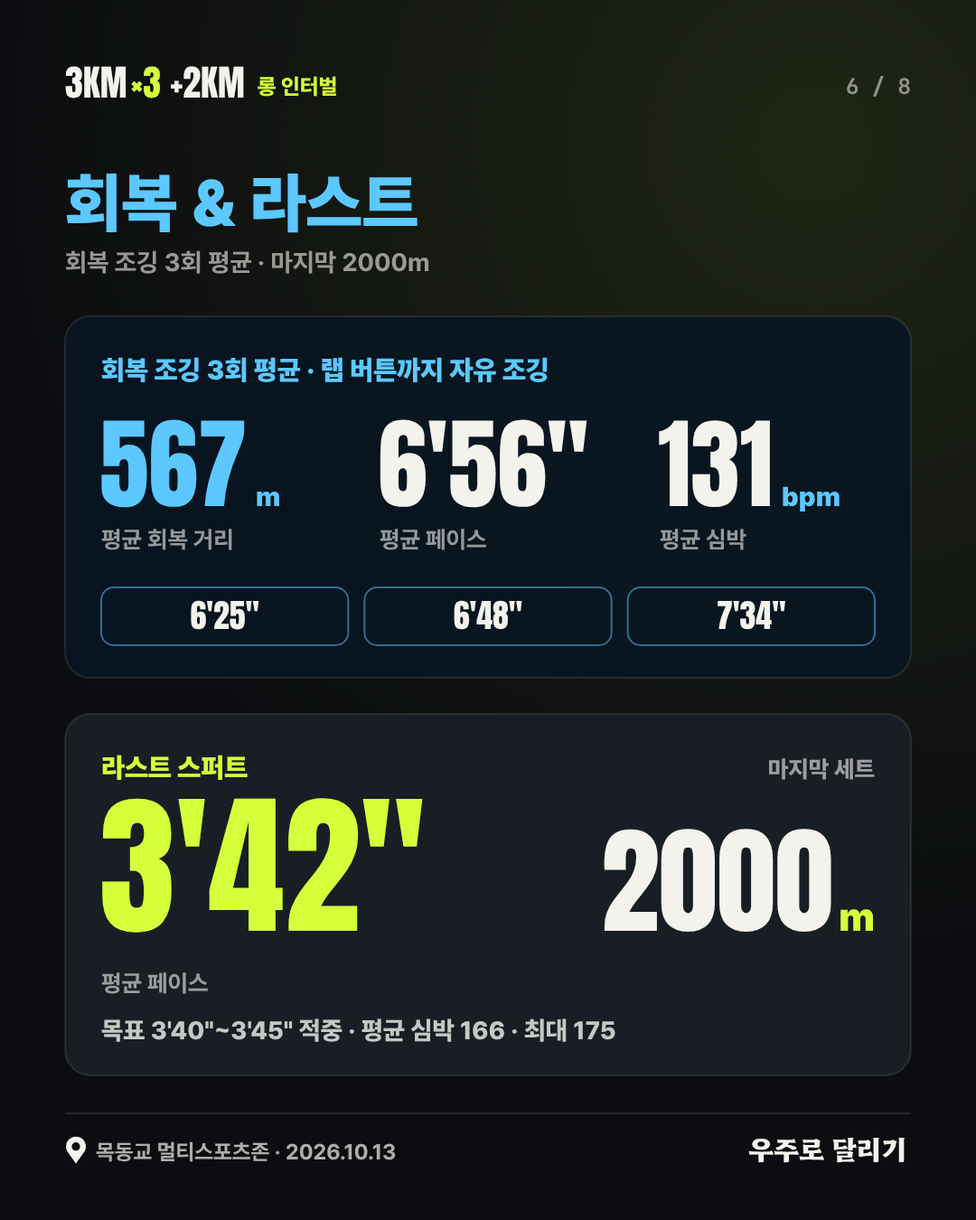
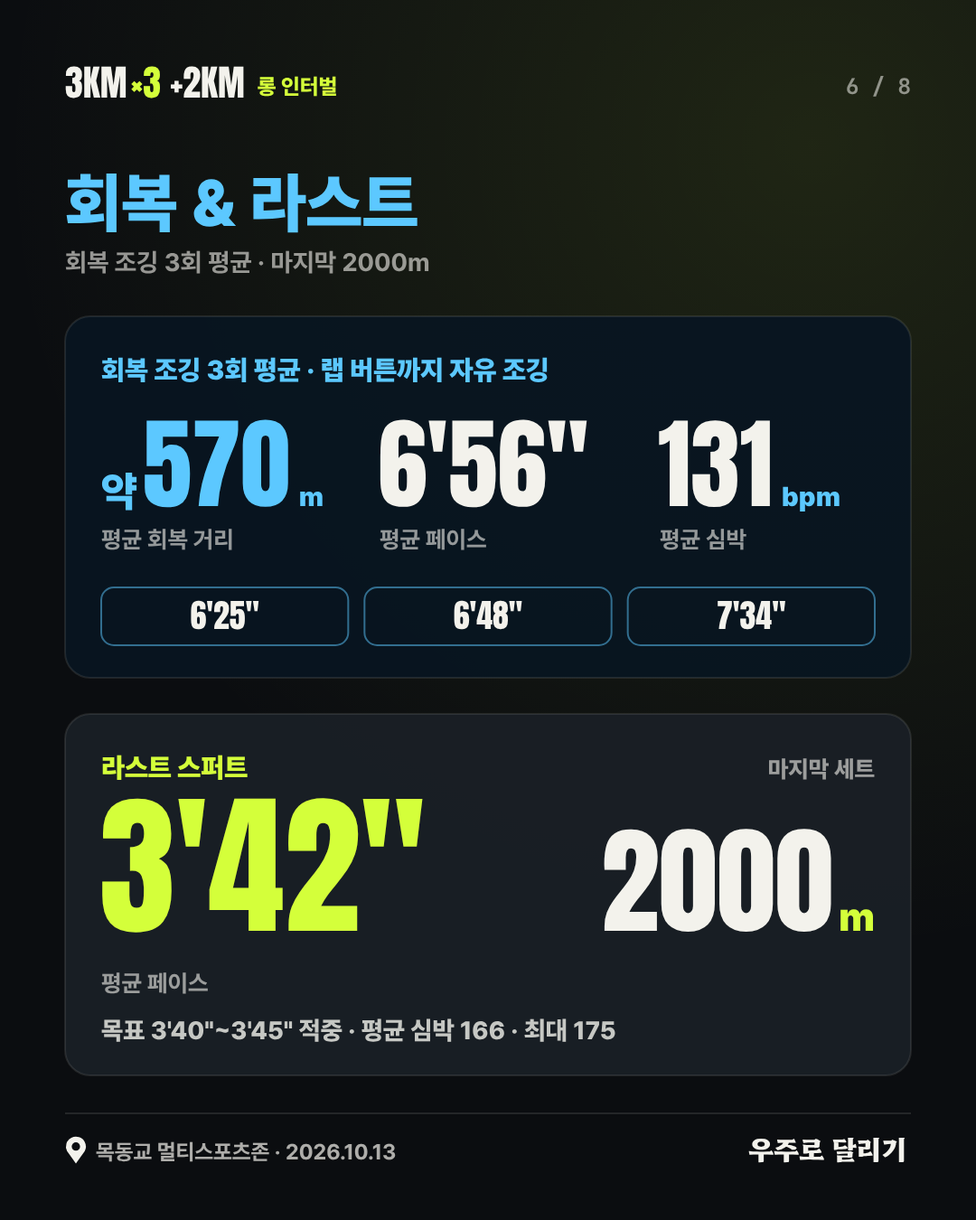
Round recovery distances to 10m with '약'; update pause wording
Claude-Session: https://claude.ai/code/session_014Y6EAQ8ssYscUPsXE8Frp2

Changed region(s): [[0.0917, 0.3422, 0.3056, 0.4356], [0.3056, 0.4044, 0.3361, 0.4356]]

diff --git a/.claude/skills/instagram-training-feed/template/cards.js b/.claude/skills/instagram-training-feed/template/cards.js
@@ -103,10 +103,10 @@ function arrow(x, y, ang, size, col) {
 }
 /* 가민 워크아웃 구성 (FIT의 workout / workout_step에서 가져온 계획) */
 const WORKOUT = {
-  name: '2km*5+1km 롱 인터벌',
+  name: '3k*3 + 2k 롱 인터벌',
   steps: [
-    ...REPS.flatMap(r => [{ run: true, dist: 2000, lo: r.lo, hi: r.hi }, { run: false, lo: 300, hi: 390 }]),
-    { run: true, dist: 1000, lo: 215, hi: 220 },
+    ...REPS.flatMap(r => [{ run: true, dist: SETD, lo: r.lo, hi: r.hi }, { run: false }]),
+    { run: true, dist: FINAL.dist, lo: FINAL.lo, hi: FINAL.hi, last: true },
   ],
 };
 function drawWorkoutPlan(x, y, w) {
@@ -118,8 +118,8 @@ function drawWorkoutPlan(x, y, w) {
   ctx.restore();
   txt('가민 워크아웃', x + 56, y, { size: 26, weight: 800, alpha: .6 });
   txt(WORKOUT.name, x + 56 + measure('가민 워크아웃', 26, 800) + 14, y + 1, { size: 30, weight: 900 });
-  // 스텝 타임라인 (길이 비례, 회복은 실제 평균 520m 비율로)
-  const units = WORKOUT.steps.reduce((a, st) => a + (st.run ? st.dist : 520), 0), gap = 4;
+  // 스텝 타임라인 (길이 비례, 회복은 실제 평균 거리 비율로)
+  const units = WORKOUT.steps.reduce((a, st) => a + (st.run ? st.dist : RECAVG.dist), 0), gap = 4;
   const bw = w - gap * (WORKOUT.steps.length - 1);
   let cx = x; const by = y + 78, bh = 54;
   // 헤더 오른쪽: 빌드업 규칙
@@ -129,14 +129,14 @@ function drawWorkoutPlan(x, y, w) {
   const runCenters = [];
   let n = 0;
   WORKOUT.steps.forEach((st, i) => {
-    const sw = bw * (st.run ? st.dist : 520) / units;
+    const sw = bw * (st.run ? st.dist : RECAVG.dist) / units;
     rrect(cx, by, sw, bh, 10);
-    ctx.fillStyle = st.run ? (st.dist === 1000 ? C.lime : ZC[3]) : 'rgba(92,200,255,.55)'; ctx.fill();
+    ctx.fillStyle = st.run ? (st.last ? C.lime : ZC[3]) : 'rgba(92,200,255,.55)'; ctx.fill();
     if (st.run) {
       n++; runCenters.push([cx + sw / 2, st.lo]);
-      txt(st.dist === 1000 ? '1km' : `2km`, cx + sw / 2, by + 36, { size: 24, fam: NUM, weight: 400, color: C.bg, align: 'center' });
+      txt(`${st.dist / 1000}km`, cx + sw / 2, by + 36, { size: 24, fam: NUM, weight: 400, color: C.bg, align: 'center' });
       // 목표는 '범위' — 하한·상한을 같은 밝기로 묶어서 표시
-      const rng = `${fmtPace(st.lo)}~${fmtPace(st.hi)}`, col = st.dist === 1000 ? C.lime : ZC[3];
+      const rng = `${fmtPace(st.lo)}~${fmtPace(st.hi)}`, col = st.last ? C.lime : ZC[3];
       line(cx + 4, by + bh + 8, cx + sw - 4, by + bh + 8, 1, { color: col, w: 2, alpha: .8 });
       line(cx + 4, by + bh + 2, cx + 4, by + bh + 8, 1, { color: col, w: 2, alpha: .8 }); line(cx + sw - 4, by + bh + 2, cx + sw - 4, by + bh + 8, 1, { color: col, w: 2, alpha: .8 });
       if (measure(rng, 18, 700, MONO) <= sw - 4) txt(rng, cx + sw / 2, by + bh + 36, { size: 18, fam: MONO, weight: 700, align: 'center', color: C.white });
@@ -160,7 +160,7 @@ function drawWorkoutPlan(x, y, w) {
   txt('질주 · 목표 페이스 범위', x + 32, ly, { size: 22, weight: 700, alpha: .75 });
   const lx2 = x + 32 + measure('질주 · 목표 페이스 범위', 22, 700) + 30;
   rrect(lx2, ly - 18, 22, 22, 5); ctx.fillStyle = 'rgba(92,200,255,.55)'; ctx.fill();
-  txt(`회복 · 랩 버튼까지 ${fmtPace(300)}~${fmtPace(390)}`, lx2 + 32, ly, { size: 22, weight: 700, alpha: .75 });
+  txt('회복 · 랩 버튼까지 자유 조깅', lx2 + 32, ly, { size: 22, weight: 700, alpha: .75 });
 }
 function cardFrame(n, title, sub, accent = C.lime) {
   bgFill(C.bg, .1, 900, 160);
@@ -170,76 +170,79 @@ function cardFrame(n, title, sub, accent = C.lime) {
   if (sub) txt(sub, 72, 300, { size: 28, weight: 700, alpha: .6 });
   line(72, 1232, W - 72, 1232, 1, { color: C.white, w: 1.5, alpha: .15 });
   pin(84, 1272, 11, C.white);
-  txt('목동교 멀티스포츠존 · 2026.11.04', 106, 1283, { size: 24, weight: 700, alpha: .7 });
+  txt(`목동교 멀티스포츠존 · ${RUN.date}`, 106, 1283, { size: 24, weight: 700, alpha: .7 });
   woojuroText(W - 72 - 92, 1272, 30, [['우주로 달리기', 0]]);
 }
 function stat(x, y, v, u, l, o = {}) {
-  const size = o.size || 120;
+  const size = o.size || 120, lx = x;
+  if (o.pre) { txt(o.pre, x, y, { size: Math.round(size * .42), weight: 900, color: o.color || C.white }); x += measure(o.pre, Math.round(size * .42), 900) + 8; }
   txt(v, x - 2, y, { size, fam: NUM, weight: 400, color: o.color || C.white });
   if (u) txt(u, x + measure(v, size, 400, NUM) + 8, y, { size: Math.round(size * .27), weight: 900, color: o.uc || C.lime });
-  if (l) txt(l, x, y + Math.round(size * .36) + 6, { size: o.ls || 26, weight: 700, alpha: .6 });
+  if (l) txt(l, lx, y + Math.round(size * .36) + 6, { size: o.ls || 26, weight: 700, alpha: .6 });
 }
 function panel(x, y, w, h, col = 'rgba(26,31,38,.92)') { rrect(x, y, w, h, 28); ctx.fillStyle = col; ctx.fill(); ctx.strokeStyle = 'rgba(243,242,236,.1)'; ctx.lineWidth = 2; ctx.stroke(); }
 
 const FEED_CARDS = [
   // 2. 세션 요약
   ['02-session-summary', () => {
-    cardFrame(2, '세션 요약', '2026.11.04 수요일 · 기온 18°C');
+    cardFrame(2, '세션 요약', '2026.10.13 화요일 · 기온 20°C');
     // 줄 구성: 거리·시간 / 페이스·칼로리 / 평균 심박·최대 심박
-    const cells = [['13.12', 'km', '총 거리'], ['57:05', '', '운동 시간'], [fmtPace(261.1), '', '평균 페이스'], ['809', 'kcal', '소모 칼로리'], ['154', 'bpm', '평균 심박'], ['177', 'bpm', '최대 심박']];
+    const cells = [['12.72', 'km', '총 거리'], ['54:36', '', '운동 시간'], [fmtPace(257.4), '', '평균 페이스'], ['771', 'kcal', '소모 칼로리'], ['152', 'bpm', '평균 심박'], ['175', 'bpm', '최대 심박']];
     cells.forEach(([v, u, l], i) => stat(72 + (i % 2) * 480, 420 + Math.floor(i / 2) * 140, v, u, l, { size: 92, uc: u === 'bpm' ? C.coral : C.lime }));
     // 본훈련 패널
     panel(72, 770, W - 144, 210);
     txt('본훈련', 112, 832, { size: 36, weight: 900, color: C.lime });
-    txt('2000m × 5 + 마지막 스텝', 112 + measure('본훈련', 36, 900) + 18, 830, { size: 24, weight: 700, alpha: .65 });
-    [['10.52', 'km', '거리'], ['40:58', '', '시간'], [fmtPace(233.6), '', '평균 페이스'], ['161', 'bpm', '평균 심박']].forEach(([v, u, l], i) =>
+    txt('3000m × 3 + 2000m', 112 + measure('본훈련', 36, 900) + 18, 830, { size: 24, weight: 700, alpha: .65 });
+    [['11.00', 'km', '거리'], ['42:43', '', '시간'], [fmtPace(233.0), '', '평균 페이스'], ['158', 'bpm', '평균 심박']].forEach(([v, u, l], i) =>
       stat(112 + i * 228, 922, v, u, l, { size: 66, ls: 22, uc: i === 3 ? C.coral : C.lime }));
     // 회복구간 패널
     panel(72, 996, W - 144, 210, 'rgba(8,21,33,.95)');
     txt('회복구간', 112, 1058, { size: 36, weight: 900, color: C.sky });
-    txt(`랩 버튼까지 조깅 · 목표 ${fmtPace(300)}~${fmtPace(390)}`, 112 + measure('회복구간', 36, 900) + 18, 1056, { size: 24, weight: 700, alpha: .65 });
-    [[String(RECAVG.dist), 'm', '평균 거리'], [fmtPace(RECAVG.pace), '', '평균 페이스'], [String(RECAVG.hr), 'bpm', '평균 심박'], [String(PAUSES.length), '회', '급수·휴식']].forEach(([v, u, l], i) =>
-      stat(112 + i * 228, 1148, v, u, l, { size: 66, ls: 22, color: i === 0 ? C.sky : C.white, uc: C.sky }));
+    txt('랩 버튼까지 자유 조깅', 112 + measure('회복구간', 36, 900) + 18, 1056, { size: 24, weight: 700, alpha: .65 });
+    [[String(r10(RECAVG.dist)), 'm', '평균 거리'], [fmtPace(RECAVG.pace), '', '평균 페이스'], [String(RECAVG.hr), 'bpm', '평균 심박'], [String(PAUSES.length), '회', '급수·휴식']].forEach(([v, u, l], i) =>
+      stat(112 + i * 228, 1148, v, u, l, { size: 66, ls: 22, color: i === 0 ? C.sky : C.white, uc: C.sky, pre: i === 0 ? '약' : null }));
   }],
   // 3. 세트별 기록
   ['03-sets', () => {
-    cardFrame(3, '세트별 기록', '2000m × 5 + 마지막 스텝 · 모든 세트 목표 페이스 적중');
+    cardFrame(3, '세트별 기록', '3000m × 3 + 2000m · 4세트 중 3세트 목표 적중');
     panel(56, 330, W - 112, 312, 'rgba(26,31,38,.9)');
     drawWorkoutPlan(84, 386, W - 168);
     const cols = [72, 200, 360, 560, 800];
     ['세트', '거리', '페이스', '목표 범위', '심박 평균/최대'].forEach((h, i) => txt(h, cols[i], 690, { size: 22, weight: 800, alpha: .5 }));
     txt('Z4+Z5', W - 72, 690, { size: 22, weight: 800, alpha: .5, align: 'right' });
-    const rows = [...REPS.map((r, i) => ({ n: `${i + 1}세트`, d: '2000m', p: r.pace, lo: r.lo, hi: r.hi, hr: Math.round(r.hr), mx: REPMAX[i], z: REPZ[i] })),
-      { n: '라스트', d: '518m', p: FINAL.pace, lo: FINAL.lo, hi: FINAL.hi, hr: FINAL.hr, mx: 172, z: FINALZ }];
+    const rows = [...REPS.map((r, i) => ({ n: `${i + 1}세트`, d: `${SETD}m`, p: r.pace, lo: r.lo, hi: r.hi, hr: Math.round(r.hr), mx: REPMAX[i], z: REPZ[i] })),
+      { n: '라스트', d: `${FINAL.dist}m`, p: FINAL.pace, lo: FINAL.lo, hi: FINAL.hi, hr: FINAL.hr, mx: FINAL.max, z: FINALZ }];
     rows.forEach((r, i) => {
-      const y = 756 + i * 76, last = i === 5;
-      if (i % 2 === 0) { ctx.save(); ctx.globalAlpha = .5; rrect(56, y - 52, W - 112, 74, 16); ctx.fillStyle = C.bg2; ctx.fill(); ctx.restore(); }
+      const y = 770 + i * 100, last = i === rows.length - 1;
+      if (i % 2 === 0) { ctx.save(); ctx.globalAlpha = .5; rrect(56, y - 60, W - 112, 90, 16); ctx.fillStyle = C.bg2; ctx.fill(); ctx.restore(); }
       txt(r.n, cols[0], y, { size: 30, weight: 900, color: last ? C.lime : C.white });
       txt(r.d, cols[1], y, { size: 34, fam: NUM, weight: 400, alpha: .85 });
       txt(fmtPace(r.p), cols[2], y + 4, { size: 50, fam: NUM, weight: 400, color: last ? C.lime : C.white });
-      circle(cols[3] + 16, y - 10, 16, { fill: C.lime }); check(cols[3] + 16, y - 10, 16, 1);
+      if (hitOf({ pace: r.p, hi: r.hi })) { circle(cols[3] + 16, y - 10, 16, { fill: C.lime }); check(cols[3] + 16, y - 10, 16, 1); }
+      else { circle(cols[3] + 16, y - 10, 15, { stroke: ZC[3], w: 3 }); txt(`+${Math.round(r.p) - r.hi}`, cols[3] + 16, y - 2, { size: 18, fam: NUM, weight: 400, color: ZC[3], align: 'center' }); }
       txt(`${fmtPace(r.lo)}~${fmtPace(r.hi)}`, cols[3] + 42, y, { size: 24, fam: MONO, weight: 700, alpha: .8 });
       txt(`${r.hr} / ${r.mx}`, cols[4], y, { size: 34, fam: NUM, weight: 400, color: C.white });
       const tot = r.z.reduce((a, c) => a + c, 0);
       txt(`${Math.round((r.z[3] + r.z[4]) / tot * 100)}%`, W - 72, y, { size: 34, fam: NUM, weight: 400, color: ZC[3], align: 'right' });
     });
-    txt(`세트마다 3~6초씩 단축 · ${fmtPace(REPS[0].pace)} → ${fmtPace(REPS[4].pace)} · 마지막 ${fmtPace(FINAL.pace)}`, 72, 1204, { size: 28, weight: 900, color: C.lime });
+    txt(`목표 세트마다 -5초 · ${fmtPace(REPS[0].pace)} → ${fmtPace(REPS[1].pace)} → ${fmtPace(REPS[2].pace)} · 마지막 2000m ${fmtPace(FINAL.pace)}`, 72, 1204, { size: 28, weight: 900, color: C.lime });
   }],
   // 4. 심박 변화 그래프
   ['04-hr-trend', () => {
     cardFrame(4, '심박 변화', '세션 전체 · 존 색상 (최대심박 186 기준)', C.coral);
-    const gx = 108, gy = 360, gw = W - 180, gh = 600, T = 3593, X = s => gx + gw * s / T;
+    const gx = 108, gy = 360, gw = W - 180, gh = 600, T = SESSION_T, X = s => gx + gw * s / T;
     REPWIN.concat([FINALWIN]).forEach(([a, c], i) => {
       ctx.save(); ctx.globalAlpha = .1; ctx.fillStyle = C.white; ctx.fillRect(X(a), gy, X(c) - X(a), gh); ctx.restore();
-      txt(i < 5 ? `${i + 1}세트` : '라스트', (X(a) + X(c)) / 2, gy + gh + 38, { size: 22, weight: 800, align: 'center', alpha: .75 });
+      txt(i < SETN ? `${i + 1}세트` : '라스트', (X(a) + X(c)) / 2, gy + gh + 38, { size: 22, weight: 800, align: 'center', alpha: .75 });
     });
     hrGraph(gx, gy, gw, gh, 0, T, 1, { lo: 95, hi: 186, band: .13, zoneLabels: true, zoneLeft: true, lw: 4 });
     pauseMarks(X, gy, gh);
     drop(84, 1036, 9, C.sky);
     txt('그래프가 끊긴 곳 = 급수·완전 휴식 (시계 일시정지 · 모두 회복 조깅 중)', 104, 1044, { size: 24, weight: 700, color: C.sky });
     txt('세트별 최대 심박', 72, 1094, { size: 24, weight: 800, alpha: .6 });
-    REPMAX.forEach((m, i) => { const x = 72 + i * 190; rrect(x, 1112, 172, 70, 16); ctx.strokeStyle = 'rgba(255,90,95,.6)'; ctx.lineWidth = 2; ctx.stroke();
-      txt(String(m), x + 70, 1162, { size: 44, fam: NUM, weight: 400, align: 'center' }); txt(`${i + 1}세트`, x + 132, 1158, { size: 18, weight: 800, color: C.coral, align: 'center' }); });
+    const mxs = [...REPMAX, FINAL.max], cwM = (W - 144 - 18 * (mxs.length - 1)) / mxs.length;
+    mxs.forEach((m, i) => { const x = 72 + i * (cwM + 18); rrect(x, 1112, cwM, 70, 16); ctx.strokeStyle = 'rgba(255,90,95,.6)'; ctx.lineWidth = 2; ctx.stroke();
+      txt(String(m), x + cwM * .4, 1162, { size: 44, fam: NUM, weight: 400, align: 'center' }); txt(i < SETN ? `${i + 1}세트` : '라스트', x + cwM * .78, 1158, { size: 18, weight: 800, color: C.coral, align: 'center' }); });
   }],
   // 5. 심박존 분석
   ['05-hr-zones', () => {
@@ -248,7 +251,7 @@ const FEED_CARDS = [
     circle(cx, cy, R, { stroke: C.bg3, w: 60 });
     MAINZ.forEach((v, i) => { const da = Math.PI * 2 * v / tot; circle(cx, cy, R, { stroke: ZC[i], w: 60, a0, a1: a0 + da }); a0 += da; });
     txt('Z4', cx, cy - 60, { size: 38, weight: 900, color: ZC[3], align: 'center' });
-    txt('64%', cx, cy + 56, { size: 96, fam: NUM, weight: 400, align: 'center' });
+    txt(`${MAINZ4}%`, cx, cy + 56, { size: 96, fam: NUM, weight: 400, align: 'center' });
     for (let i = 4; i >= 0; i--) {
       const y = 420 + (4 - i) * 72, x = 540;
       rrect(x, y - 24, 12, 30, 4); ctx.fillStyle = ZC[i]; ctx.fill();
@@ -258,39 +261,39 @@ const FEED_CARDS = [
       txt(`${Math.round(MAINZ[i] / tot * 100)}%`, W - 72, y, { size: 26, fam: MONO, weight: 700, color: ZC[i], align: 'right' });
     }
     txt('세트별 존 구성 (위 숫자 = Z4+Z5 비중)', 72, 830, { size: 26, weight: 800, alpha: .6 });
-    const all = [...REPZ, FINALZ], cw = 120, gap = (W - 144 - 6 * cw) / 5, y0 = 1150, hh = 250;
+    const all = [...REPZ, FINALZ], nA = all.length, cw = 170, gap = (W - 144 - nA * cw) / (nA - 1), y0 = 1150, hh = 250;
     all.forEach((z, i) => {
       const t_ = z.reduce((a, c) => a + c, 0), x = 72 + i * (cw + gap); let y = y0;
       ctx.save(); rrect(x, y0 - hh, cw, hh, 10); ctx.clip();
       z.forEach((v, j) => { const h = hh * v / t_; ctx.fillStyle = ZC[j]; ctx.fillRect(x, y - h, cw, h + .5); y -= h; }); ctx.restore();
       txt(`${Math.round((z[3] + z[4]) / t_ * 100)}%`, x + cw / 2, y0 - hh - 14, { size: 34, fam: NUM, weight: 400, align: 'center' });
-      txt(i < 5 ? `${i + 1}세트` : '라스트', x + cw / 2, y0 + 34, { size: 20, weight: 800, align: 'center', alpha: .7 });
+      txt(i < SETN ? `${i + 1}세트` : '라스트', x + cw / 2, y0 + 34, { size: 20, weight: 800, align: 'center', alpha: .7 });
     });
   }],
   // 6. 회복 조깅 & 라스트 스퍼트
   ['06-recovery-last', () => {
-    cardFrame(6, '회복 & 라스트', '회복 조깅 5회 평균 · 마지막 바퀴', C.sky);
+    cardFrame(6, '회복 & 라스트', `회복 조깅 ${RECS.length}회 평균 · 마지막 2000m`, C.sky);
     panel(72, 350, W - 144, 400, 'rgba(8,21,33,.95)');
-    txt('회복 조깅 5회 평균', 112, 420, { size: 30, weight: 900, color: C.sky });
-    stat(112, 560, String(RECAVG.dist), 'm', '평균 회복 거리', { size: 110, color: C.sky, uc: C.sky });
+    txt(`회복 조깅 ${RECS.length}회 평균 · 랩 버튼까지 자유 조깅`, 112, 420, { size: 30, weight: 900, color: C.sky });
+    stat(112, 560, String(r10(RECAVG.dist)), 'm', '평균 회복 거리', { size: 110, color: C.sky, uc: C.sky, pre: '약' });
     stat(420, 560, fmtPace(RECAVG.pace), '', '평균 페이스', { size: 110 });
     stat(730, 560, String(RECAVG.hr), 'bpm', '평균 심박', { size: 110, uc: C.sky });
-    RECS.forEach((p, i) => { const x = 112 + i * 174; rrect(x, 650, 156, 64, 14); ctx.strokeStyle = 'rgba(92,200,255,.5)'; ctx.lineWidth = 2; ctx.stroke();
-      txt(fmtPace(p), x + 78, 696, { size: 36, fam: NUM, weight: 400, align: 'center' }); });
+    const cwR = (W - 224 - 18 * (RECS.length - 1)) / RECS.length;
+    RECS.forEach((p, i) => { const x = 112 + i * (cwR + 18); rrect(x, 650, cwR, 64, 14); ctx.strokeStyle = 'rgba(92,200,255,.5)'; ctx.lineWidth = 2; ctx.stroke();
+      txt(fmtPace(p), x + cwR / 2, 696, { size: 36, fam: NUM, weight: 400, align: 'center' }); });
     panel(72, 790, W - 144, 400);
     txt('라스트 스퍼트', 112, 860, { size: 30, weight: 900, color: C.lime });
-    txt('마지막 바퀴', W - 112, 860, { size: 26, weight: 800, alpha: .6, align: 'right' });
+    txt('마지막 세트', W - 112, 860, { size: 26, weight: 800, alpha: .6, align: 'right' });
     stat(112, 1030, fmtPace(FINAL.pace), '', '평균 페이스', { size: 170, color: C.lime });
     const mW = measure('m', 44, 900);
     txt('m', W - 112, 1030, { size: 44, weight: 900, color: C.lime, align: 'right' });
-    txt('520', W - 112 - mW - 6, 1030, { size: 130, fam: NUM, weight: 400, align: 'right' });
-    txt('약', W - 112 - mW - 12 - measure('520', 130, 400, NUM) - 6, 1030, { size: 40, weight: 900, align: 'right' });
-    txt(`목표 ${fmtPace(215)}~${fmtPace(220)}보다 8초 빠르게 · 평균 심박 164`, 112, 1150, { size: 28, weight: 800, alpha: .8 });
+    txt(String(FINAL.dist), W - 112 - mW - 6, 1030, { size: 130, fam: NUM, weight: 400, align: 'right' });
+    txt(`목표 ${fmtPace(FINAL.lo)}~${fmtPace(FINAL.hi)} 적중 · 평균 심박 ${FINAL.hr} · 최대 ${FINAL.max}`, 112, 1150, { size: 28, weight: 800, alpha: .8 });
   }],
   // 7. 러닝 다이내믹스 & 훈련 효과
   ['07-dynamics', () => {
     cardFrame(7, '러닝 다이내믹스', '세션 평균 · 훈련 효과');
-    const cells = [['186', 'spm', '케이던스'], ['1.21', 'm', '보폭'], ['218', 'ms', '지면 접촉 시간'], ['8.3', 'cm', '수직 진폭'], ['7.0', '%', '수직 비율'], ['18.0', 'km/h', '최고 속도']];
+    const cells = [['188', 'spm', '케이던스'], ['1.23', 'm', '보폭'], ['217', 'ms', '지면 접촉 시간'], ['8.3', 'cm', '수직 진폭'], ['7.0', '%', '수직 비율'], ['17.7', 'km/h', '최고 속도']];
     cells.forEach(([v, u, l], i) => stat(72 + (i % 2) * 480, 440 + Math.floor(i / 2) * 170, v, u, l, { size: 110 }));
     panel(72, 880, W - 144, 310);
     txt('훈련 효과', 112, 950, { size: 34, weight: 900, color: C.lime });
@@ -300,7 +303,7 @@ const FEED_CARDS = [
       txt(v.toFixed(1), cx, cy + 24, { size: 66, fam: NUM, weight: 400, align: 'center' });
       txt(label, cx, cy + 74, { size: 22, weight: 800, color: col, align: 'center' });
     };
-    g(220, 4.3, '유산소', C.lime); g(430, 1.2, '무산소', C.sky);
+    g(220, 4.0, '유산소', C.lime); g(430, 1.3, '무산소', C.sky);
     txt('유산소 능력', 580, 1060, { size: 40, weight: 900, color: C.lime });
     txt('크게 향상', 580, 1112, { size: 40, weight: 900, color: C.lime });
     txt('젖산역치 부근 지속 훈련', 580, 1158, { size: 24, weight: 700, alpha: .6 });

diff --git a/.claude/skills/instagram-training-feed/template/scene.js b/.claude/skills/instagram-training-feed/template/scene.js
@@ -39,6 +39,7 @@ const RECSETS = [
   { dist: 587, time: 266.5, pace: 454.0, hr: 133, win: [2592, 2877], pause: 20 },
 ];
 // 영상 타임라인 (비트 인덱스): 세트 12박 → 회복 6박 반복, 마지막 2000m 10박
+const r10 = v => Math.round(v / 10) * 10; // 회복 거리 표기: 1의 자리 반올림 + '약'
 const SEQ = { set: [16, 34, 52], rec: [28, 46, 64], last: 70, chart: 80, donut: 88, zones: 92, outro: 96 };
 // 시계 일시정지 구간 = 급수·완전 휴식 [시작 경과초, 길이초]
 const PAUSES = [[781, 12], [1718, 19], [2675, 20]];
@@ -411,11 +412,12 @@ function sSummary(t) {
   // 본훈련 (한 줄 4개)
   txt('본훈련', cx + 44, cy + 376, { size: 38, weight: 900, color: C.lime });
   txt('3000m × 3 + 2000m', cx + 44 + measure('본훈련', 38, 900) + 18, cy + 374, { size: 24, weight: 700, alpha: .65 });
-  const row4 = (items, y, t1, opt = {}) => items.forEach(([v, u, l], i) => {
-    const ui = E.outX(P(t, t1 + i * .07, t1 + .3 + i * .07)), x = cx + 44 + i * 222;
+  const row4 = (items, y, t1, opt = {}) => items.forEach(([v, u, l, pre], i) => {
+    const ui = E.outX(P(t, t1 + i * .07, t1 + .3 + i * .07)); let x = cx + 44 + i * 222; const lx = x;
+    if (pre) { maskText(pre, x, y, { size: 30, weight: 900, color: opt.first && i === 0 ? opt.first : C.white }, 1 - ui); x += measure(pre, 30, 900) + 6; }
     maskText(v, x - 2, y, { size: 72, fam: NUM, weight: 400, color: opt.first && i === 0 ? opt.first : C.white }, 1 - ui);
     if (u) maskText(u, x + measure(v, 72, 400, NUM) + 6, y, { size: 24, weight: 900, color: opt.uc ? opt.uc(i) : C.lime }, 1 - ui);
-    maskText(l, x, y + 36, { size: 22, weight: 700, alpha: .55 }, 1 - ui);
+    maskText(l, lx, y + 36, { size: 22, weight: 700, alpha: .55 }, 1 - ui);
   });
   row4([['11.00', 'km', '거리'], ['42:43', '', '시간'], [fmtPace(233.0), '', '평균 페이스'], ['158', 'bpm', '평균 심박']], cy + 476, b(10), { uc: i => i === 3 ? C.coral : C.lime });
   // 본훈련 심박존
@@ -428,7 +430,7 @@ function sSummary(t) {
   const ru = P(t, b(13), b(13) + .2);
   txt('회복구간', cx + 44, cy + 800, { size: 38, weight: 900, color: C.sky, alpha: ru });
   txt('랩 버튼까지 자유 조깅', cx + 44 + measure('회복구간', 38, 900) + 18, cy + 798, { size: 24, weight: 700, alpha: .65 * ru });
-  row4([[String(RECAVG.dist), 'm', '평균 거리'], [fmtPace(RECAVG.pace), '', '평균 페이스'], [String(RECAVG.hr), 'bpm', '평균 심박'], [String(PAUSES.length), '회', '급수·휴식']], cy + 900, b(13) + .1, { first: C.sky, uc: () => C.sky });
+  row4([[String(r10(RECAVG.dist)), 'm', '평균 거리', '약'], [fmtPace(RECAVG.pace), '', '평균 페이스'], [String(RECAVG.hr), 'bpm', '평균 심박'], [String(PAUSES.length), '회', '급수·휴식']], cy + 900, b(13) + .1, { first: C.sky, uc: () => C.sky });
   ctx.restore();
   sectionLabel('세션 요약', '01', t0, t);
   const ou = E.inC(P(t, b(16) - .14, b(16)));
@@ -526,7 +528,8 @@ function sRecSet(t, k) {
   const du = E.outX(P(t, t0 + .1, t0 + .4));
   ctx.save(); ctx.globalAlpha = du; ctx.translate(W - 72, 330);
   const mW = measure('m', 50, 900); txt('m', 0, 0, { size: 50, weight: 900, color: C.sky, align: 'right' });
-  txt(String(r.dist), -mW - 8, 0, { size: 150, fam: NUM, weight: 400, color: C.sky, align: 'right' }); ctx.restore();
+  const dS = String(r10(r.dist)); txt(dS, -mW - 8, 0, { size: 150, fam: NUM, weight: 400, color: C.sky, align: 'right' });
+  txt('약', -mW - 8 - measure(dS, 150, 400, NUM) - 12, 0, { size: 46, weight: 900, color: C.white, align: 'right' }); ctx.restore();
   // 수치 한 줄
   const items = [[fmtDur(r.time), '', '회복 시간'], [fmtPace(r.pace), '', '평균 페이스'], [String(r.hr), 'bpm', '평균 심박']];
   items.forEach(([v, u, l], i) => {
@@ -538,7 +541,7 @@ function sRecSet(t, k) {
   // 급수·휴식
   const pu = E.outX(P(t, bt(2), bt(2) + .3));
   ctx.save(); ctx.globalAlpha = pu; drop(86, 672, 11, C.sky); ctx.restore();
-  maskText(`급수·휴식 ${r.pause}초 · 시계를 멈추고 완전히 쉼`, 110, 684, { size: 30, weight: 800, color: C.white }, 1 - pu);
+  maskText(`급수 휴식 ${r.pause}초 혹은 시계 멈추고 완전휴식`, 110, 684, { size: 30, weight: 800, color: C.white }, 1 - pu);
   // 세트 끝 ~ 다음 세트 시작 심박 (회복 구간 음영)
   const a0 = r.win[0] - 90, a1 = r.win[1] + 40, gx = 72, gy = 760, gw = W - 144, gh = 330;
   const X = s => gx + gw * (s - a0) / (a1 - a0);
@@ -658,7 +661,7 @@ function sRecovery(t) {
   ctx.restore();
   // 평균값 (한 번에)
   maskText(`회복 조깅 ${RECS.length}회 평균`, 72, 540, { size: 30, weight: 800, color: C.sky }, off);
-  const avg = [[String(RECAVG.dist), 'm', '평균 회복 거리'], [fmtPace(RECAVG.pace), '', '평균 페이스'], [String(RECAVG.hr), 'bpm', '평균 심박']];
+  const avg = [[String(r10(RECAVG.dist)), 'm', '평균 회복 거리(약)'], [fmtPace(RECAVG.pace), '', '평균 페이스'], [String(RECAVG.hr), 'bpm', '평균 심박']];
   avg.forEach(([v, u, l], i) => {
     const x = 72 + i * 320, y = 680;
     const bump = 1 + .03 * pulse(t, 8, 64, 71);

diff --git a/run-review-1013/scene.js b/run-review-1013/scene.js
@@ -39,6 +39,7 @@ const RECSETS = [
   { dist: 587, time: 266.5, pace: 454.0, hr: 133, win: [2592, 2877], pause: 20 },
 ];
 // 영상 타임라인 (비트 인덱스): 세트 12박 → 회복 6박 반복, 마지막 2000m 10박
+const r10 = v => Math.round(v / 10) * 10; // 회복 거리 표기: 1의 자리 반올림 + '약'
 const SEQ = { set: [16, 34, 52], rec: [28, 46, 64], last: 70, chart: 80, donut: 88, zones: 92, outro: 96 };
 // 시계 일시정지 구간 = 급수·완전 휴식 [시작 경과초, 길이초]
 const PAUSES = [[781, 12], [1718, 19], [2675, 20]];
@@ -411,11 +412,12 @@ function sSummary(t) {
   // 본훈련 (한 줄 4개)
   txt('본훈련', cx + 44, cy + 376, { size: 38, weight: 900, color: C.lime });
   txt('3000m × 3 + 2000m', cx + 44 + measure('본훈련', 38, 900) + 18, cy + 374, { size: 24, weight: 700, alpha: .65 });
-  const row4 = (items, y, t1, opt = {}) => items.forEach(([v, u, l], i) => {
-    const ui = E.outX(P(t, t1 + i * .07, t1 + .3 + i * .07)), x = cx + 44 + i * 222;
+  const row4 = (items, y, t1, opt = {}) => items.forEach(([v, u, l, pre], i) => {
+    const ui = E.outX(P(t, t1 + i * .07, t1 + .3 + i * .07)); let x = cx + 44 + i * 222; const lx = x;
+    if (pre) { maskText(pre, x, y, { size: 30, weight: 900, color: opt.first && i === 0 ? opt.first : C.white }, 1 - ui); x += measure(pre, 30, 900) + 6; }
     maskText(v, x - 2, y, { size: 72, fam: NUM, weight: 400, color: opt.first && i === 0 ? opt.first : C.white }, 1 - ui);
     if (u) maskText(u, x + measure(v, 72, 400, NUM) + 6, y, { size: 24, weight: 900, color: opt.uc ? opt.uc(i) : C.lime }, 1 - ui);
-    maskText(l, x, y + 36, { size: 22, weight: 700, alpha: .55 }, 1 - ui);
+    maskText(l, lx, y + 36, { size: 22, weight: 700, alpha: .55 }, 1 - ui);
   });
   row4([['11.00', 'km', '거리'], ['42:43', '', '시간'], [fmtPace(233.0), '', '평균 페이스'], ['158', 'bpm', '평균 심박']], cy + 476, b(10), { uc: i => i === 3 ? C.coral : C.lime });
   // 본훈련 심박존
@@ -428,7 +430,7 @@ function sSummary(t) {
   const ru = P(t, b(13), b(13) + .2);
   txt('회복구간', cx + 44, cy + 800, { size: 38, weight: 900, color: C.sky, alpha: ru });
   txt('랩 버튼까지 자유 조깅', cx + 44 + measure('회복구간', 38, 900) + 18, cy + 798, { size: 24, weight: 700, alpha: .65 * ru });
-  row4([[String(RECAVG.dist), 'm', '평균 거리'], [fmtPace(RECAVG.pace), '', '평균 페이스'], [String(RECAVG.hr), 'bpm', '평균 심박'], [String(PAUSES.length), '회', '급수·휴식']], cy + 900, b(13) + .1, { first: C.sky, uc: () => C.sky });
+  row4([[String(r10(RECAVG.dist)), 'm', '평균 거리', '약'], [fmtPace(RECAVG.pace), '', '평균 페이스'], [String(RECAVG.hr), 'bpm', '평균 심박'], [String(PAUSES.length), '회', '급수·휴식']], cy + 900, b(13) + .1, { first: C.sky, uc: () => C.sky });
   ctx.restore();
   sectionLabel('세션 요약', '01', t0, t);
   const ou = E.inC(P(t, b(16) - .14, b(16)));
@@ -526,7 +528,8 @@ function sRecSet(t, k) {
   const du = E.outX(P(t, t0 + .1, t0 + .4));
   ctx.save(); ctx.globalAlpha = du; ctx.translate(W - 72, 330);
   const mW = measure('m', 50, 900); txt('m', 0, 0, { size: 50, weight: 900, color: C.sky, align: 'right' });
-  txt(String(r.dist), -mW - 8, 0, { size: 150, fam: NUM, weight: 400, color: C.sky, align: 'right' }); ctx.restore();
+  const dS = String(r10(r.dist)); txt(dS, -mW - 8, 0, { size: 150, fam: NUM, weight: 400, color: C.sky, align: 'right' });
+  txt('약', -mW - 8 - measure(dS, 150, 400, NUM) - 12, 0, { size: 46, weight: 900, color: C.white, align: 'right' }); ctx.restore();
   // 수치 한 줄
   const items = [[fmtDur(r.time), '', '회복 시간'], [fmtPace(r.pace), '', '평균 페이스'], [String(r.hr), 'bpm', '평균 심박']];
   items.forEach(([v, u, l], i) => {
@@ -538,7 +541,7 @@ function sRecSet(t, k) {
   // 급수·휴식
   const pu = E.outX(P(t, bt(2), bt(2) + .3));
   ctx.save(); ctx.globalAlpha = pu; drop(86, 672, 11, C.sky); ctx.restore();
-  maskText(`급수·휴식 ${r.pause}초 · 시계를 멈추고 완전히 쉼`, 110, 684, { size: 30, weight: 800, color: C.white }, 1 - pu);
+  maskText(`급수 휴식 ${r.pause}초 혹은 시계 멈추고 완전휴식`, 110, 684, { size: 30, weight: 800, color: C.white }, 1 - pu);
   // 세트 끝 ~ 다음 세트 시작 심박 (회복 구간 음영)
   const a0 = r.win[0] - 90, a1 = r.win[1] + 40, gx = 72, gy = 760, gw = W - 144, gh = 330;
   const X = s => gx + gw * (s - a0) / (a1 - a0);
@@ -658,7 +661,7 @@ function sRecovery(t) {
   ctx.restore();
   // 평균값 (한 번에)
   maskText(`회복 조깅 ${RECS.length}회 평균`, 72, 540, { size: 30, weight: 800, color: C.sky }, off);
-  const avg = [[String(RECAVG.dist), 'm', '평균 회복 거리'], [fmtPace(RECAVG.pace), '', '평균 페이스'], [String(RECAVG.hr), 'bpm', '평균 심박']];
+  const avg = [[String(r10(RECAVG.dist)), 'm', '평균 회복 거리(약)'], [fmtPace(RECAVG.pace), '', '평균 페이스'], [String(RECAVG.hr), 'bpm', '평균 심박']];
   avg.forEach(([v, u, l], i) => {
     const x = 72 + i * 320, y = 680;
     const bump = 1 + .03 * pulse(t, 8, 64, 71);

diff --git a/run-review-1013/cards.js b/run-review-1013/cards.js
@@ -174,10 +174,11 @@ function cardFrame(n, title, sub, accent = C.lime) {
   woojuroText(W - 72 - 92, 1272, 30, [['우주로 달리기', 0]]);
 }
 function stat(x, y, v, u, l, o = {}) {
-  const size = o.size || 120;
+  const size = o.size || 120, lx = x;
+  if (o.pre) { txt(o.pre, x, y, { size: Math.round(size * .42), weight: 900, color: o.color || C.white }); x += measure(o.pre, Math.round(size * .42), 900) + 8; }
   txt(v, x - 2, y, { size, fam: NUM, weight: 400, color: o.color || C.white });
   if (u) txt(u, x + measure(v, size, 400, NUM) + 8, y, { size: Math.round(size * .27), weight: 900, color: o.uc || C.lime });
-  if (l) txt(l, x, y + Math.round(size * .36) + 6, { size: o.ls || 26, weight: 700, alpha: .6 });
+  if (l) txt(l, lx, y + Math.round(size * .36) + 6, { size: o.ls || 26, weight: 700, alpha: .6 });
 }
 function panel(x, y, w, h, col = 'rgba(26,31,38,.92)') { rrect(x, y, w, h, 28); ctx.fillStyle = col; ctx.fill(); ctx.strokeStyle = 'rgba(243,242,236,.1)'; ctx.lineWidth = 2; ctx.stroke(); }
 
@@ -198,8 +199,8 @@ const FEED_CARDS = [
     panel(72, 996, W - 144, 210, 'rgba(8,21,33,.95)');
     txt('회복구간', 112, 1058, { size: 36, weight: 900, color: C.sky });
     txt('랩 버튼까지 자유 조깅', 112 + measure('회복구간', 36, 900) + 18, 1056, { size: 24, weight: 700, alpha: .65 });
-    [[String(RECAVG.dist), 'm', '평균 거리'], [fmtPace(RECAVG.pace), '', '평균 페이스'], [String(RECAVG.hr), 'bpm', '평균 심박'], [String(PAUSES.length), '회', '급수·휴식']].forEach(([v, u, l], i) =>
-      stat(112 + i * 228, 1148, v, u, l, { size: 66, ls: 22, color: i === 0 ? C.sky : C.white, uc: C.sky }));
+    [[String(r10(RECAVG.dist)), 'm', '평균 거리'], [fmtPace(RECAVG.pace), '', '평균 페이스'], [String(RECAVG.hr), 'bpm', '평균 심박'], [String(PAUSES.length), '회', '급수·휴식']].forEach(([v, u, l], i) =>
+      stat(112 + i * 228, 1148, v, u, l, { size: 66, ls: 22, color: i === 0 ? C.sky : C.white, uc: C.sky, pre: i === 0 ? '약' : null }));
   }],
   // 3. 세트별 기록
   ['03-sets', () => {
@@ -274,7 +275,7 @@ const FEED_CARDS = [
     cardFrame(6, '회복 & 라스트', `회복 조깅 ${RECS.length}회 평균 · 마지막 2000m`, C.sky);
     panel(72, 350, W - 144, 400, 'rgba(8,21,33,.95)');
     txt(`회복 조깅 ${RECS.length}회 평균 · 랩 버튼까지 자유 조깅`, 112, 420, { size: 30, weight: 900, color: C.sky });
-    stat(112, 560, String(RECAVG.dist), 'm', '평균 회복 거리', { size: 110, color: C.sky, uc: C.sky });
+    stat(112, 560, String(r10(RECAVG.dist)), 'm', '평균 회복 거리', { size: 110, color: C.sky, uc: C.sky, pre: '약' });
     stat(420, 560, fmtPace(RECAVG.pace), '', '평균 페이스', { size: 110 });
     stat(730, 560, String(RECAVG.hr), 'bpm', '평균 심박', { size: 110, uc: C.sky });
     const cwR = (W - 224 - 18 * (RECS.length - 1)) / RECS.length;

diff --git a/.claude/skills/instagram-training-feed/SKILL.md b/.claude/skills/instagram-training-feed/SKILL.md
@@ -40,6 +40,8 @@ description: "인스타그램 훈련 피드 양식" — Garmin 러닝 데이터(
 **넣는 것**
 - **장소**(핀 아이콘 + 장소명). 장소명은 사용자에게 받는다 — GPS로 지명을 추정하지 않는다.
 - 회복 구간은 **평균값**: 평균 거리(m) · 평균 페이스 · 평균 심박.
+- **회복 거리는 1의 자리에서 반올림하고 "약"을 붙인다**(587m → 약 590m, 567m → 약 570m · `r10()`). 영상 회복 화면·요약·카드 모두 동일.
+- 회복 화면의 휴식 문구는 **"급수 휴식 N초 혹은 시계 멈추고 완전휴식"**.
 - **심박 그래프가 끊긴 곳 = 급수·완전 휴식**(시계 일시정지): 물방울 마커 + 길이(초) + 범례.
 - 훈련 유형(예: "빌드업 롱 인터벌")을 영상 마지막 요약에서 크게 강조.
 
